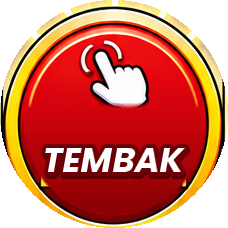
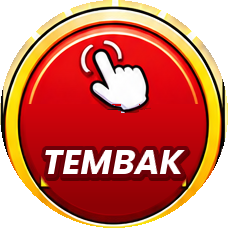
Tombol TEMBAK: gambar tangan utuh, tulisan di bawah tangan
Claude-Session: https://claude.ai/code/session_012X9z3hKZkyQJmPUmPxHL19

Changed region(s): [[0.1842, 0.614, 0.8596, 0.7982], [0.4298, 0.4298, 0.6447, 0.5219], [0.1228, 0.4605, 0.1535, 0.4912]]

diff --git a/index.html b/index.html
@@ -4520,7 +4520,7 @@ function pp2HTML(){ const me = AKUN.u, S = POLP.saya, px = (x)=>(x / 10.24).toFi
     <span class="o xlv" id="ppLv"></span><span class="o xpkn" id="ppNm"></span><span class="o xto" id="ppTo"></span>
     <i class="xfill" id="ppBar" style="width:0%"></i><span class="o xbt" id="ppBt"></span><span class="o xpc" id="ppPc"></span>
     <span class="o xst" style="top:54.1%;left:9.6%;right:auto;text-align:left" id="ppHari"></span><span class="o xst" style="top:57.68%;left:9.6%;right:auto;text-align:left" id="ppTot"></span><span class="o xst" style="top:62.45%;left:16.45%;right:auto;transform:translate(-50%,-50%);text-align:center;font-size:2.7cqw" id="ppRank"></span>
-    <button class="tapb" id="ppTap" aria-label="Tembak"><img src="assets/polisi-tap.png?v=1122u" alt="TEMBAK"></button>
+    <button class="tapb" id="ppTap" aria-label="Tembak"><img src="assets/polisi-tap.png?v=1122w" alt="TEMBAK"></button>
     <div class="xrk" id="ppRk"></div>
     <button class="hs" data-pp-semua style="left:59.3%;top:63.9%;width:32.5%;height:2.7%;border-radius:999px" aria-label="Lihat Peringkat Lengkap"></button>
     <i class="xcur" id="ppCur"></i>${PP2_X.map((x, i)=>`<span class="xsy" id="ppSy${i}" style="left:${px(x)}"></span>`).join('')}
@@ -8244,6 +8244,6 @@ loop();
 })();
 
 </script>
-<div id="verTag" style="position:fixed;left:6px;bottom:4px;z-index:5;font:600 10px system-ui,sans-serif;color:#fff;background:#0007;border-radius:6px;padding:2px 6px;pointer-events:none">versi 22 Nov 13:15</div>
+<div id="verTag" style="position:fixed;left:6px;bottom:4px;z-index:5;font:600 10px system-ui,sans-serif;color:#fff;background:#0007;border-radius:6px;padding:2px 6px;pointer-events:none">versi 22 Nov 13:20</div>
 </body>
 </html>

diff --git a/uji-siang-malam.html b/uji-siang-malam.html
@@ -4541,7 +4541,7 @@ function pp2HTML(){ const me = AKUN.u, S = POLP.saya, px = (x)=>(x / 10.24).toFi
     <span class="o xlv" id="ppLv"></span><span class="o xpkn" id="ppNm"></span><span class="o xto" id="ppTo"></span>
     <i class="xfill" id="ppBar" style="width:0%"></i><span class="o xbt" id="ppBt"></span><span class="o xpc" id="ppPc"></span>
     <span class="o xst" style="top:54.1%;left:9.6%;right:auto;text-align:left" id="ppHari"></span><span class="o xst" style="top:57.68%;left:9.6%;right:auto;text-align:left" id="ppTot"></span><span class="o xst" style="top:62.45%;left:16.45%;right:auto;transform:translate(-50%,-50%);text-align:center;font-size:2.7cqw" id="ppRank"></span>
-    <button class="tapb" id="ppTap" aria-label="Tembak"><img src="assets/polisi-tap.png?v=1122u" alt="TEMBAK"></button>
+    <button class="tapb" id="ppTap" aria-label="Tembak"><img src="assets/polisi-tap.png?v=1122w" alt="TEMBAK"></button>
     <div class="xrk" id="ppRk"></div>
     <button class="hs" data-pp-semua style="left:59.3%;top:63.9%;width:32.5%;height:2.7%;border-radius:999px" aria-label="Lihat Peringkat Lengkap"></button>
     <i class="xcur" id="ppCur"></i>${PP2_X.map((x, i)=>`<span class="xsy" id="ppSy${i}" style="left:${px(x)}"></span>`).join('')}
@@ -8265,6 +8265,6 @@ loop();
 })();
 
 </script>
-<div id="verTag" style="position:fixed;left:6px;bottom:4px;z-index:5;font:600 10px system-ui,sans-serif;color:#fff;background:#0007;border-radius:6px;padding:2px 6px;pointer-events:none">versi 22 Nov 13:15</div>
+<div id="verTag" style="position:fixed;left:6px;bottom:4px;z-index:5;font:600 10px system-ui,sans-serif;color:#fff;background:#0007;border-radius:6px;padding:2px 6px;pointer-events:none">versi 22 Nov 13:20</div>
 </body>
 </html>
